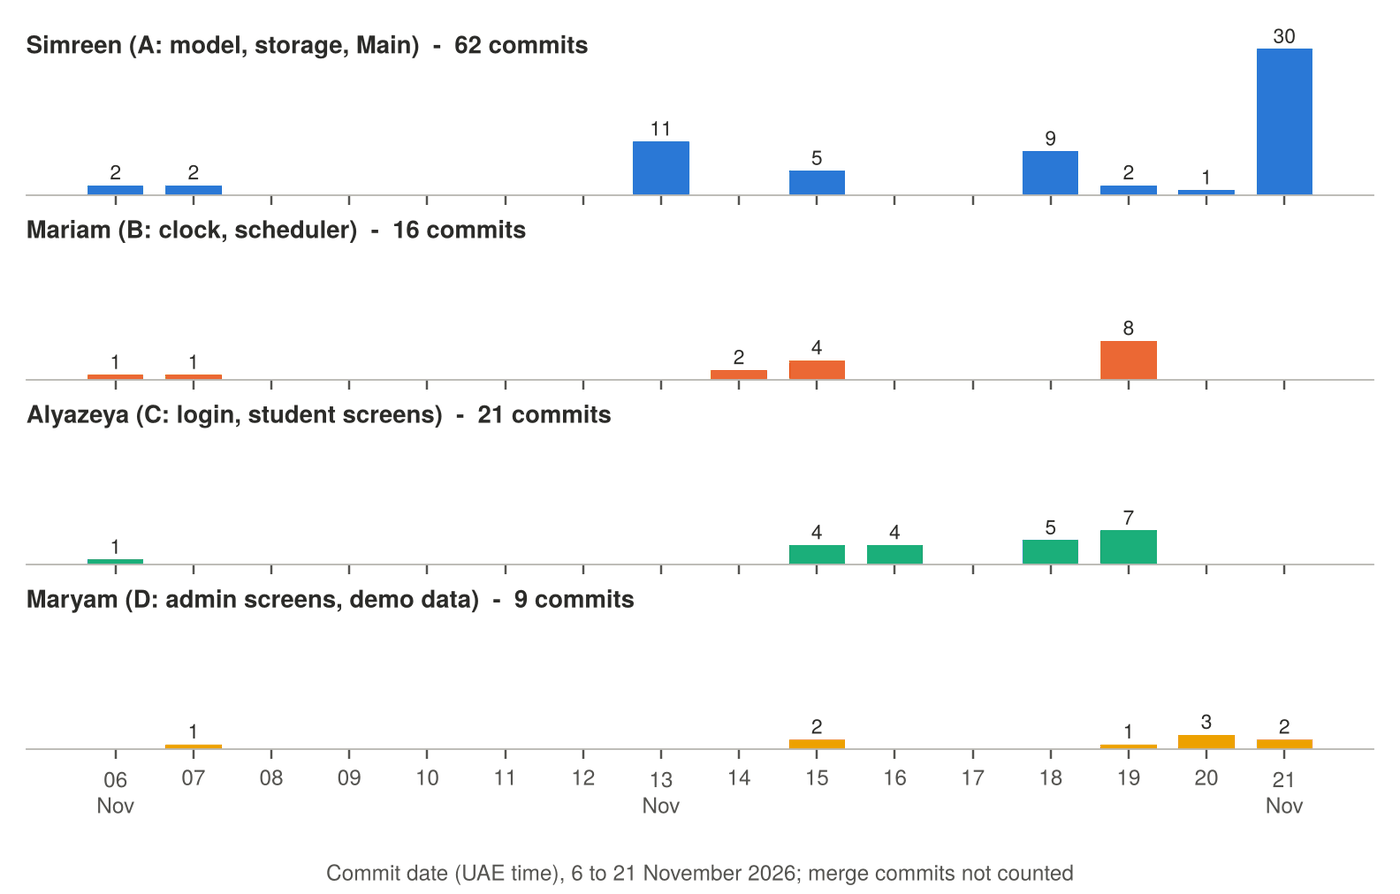
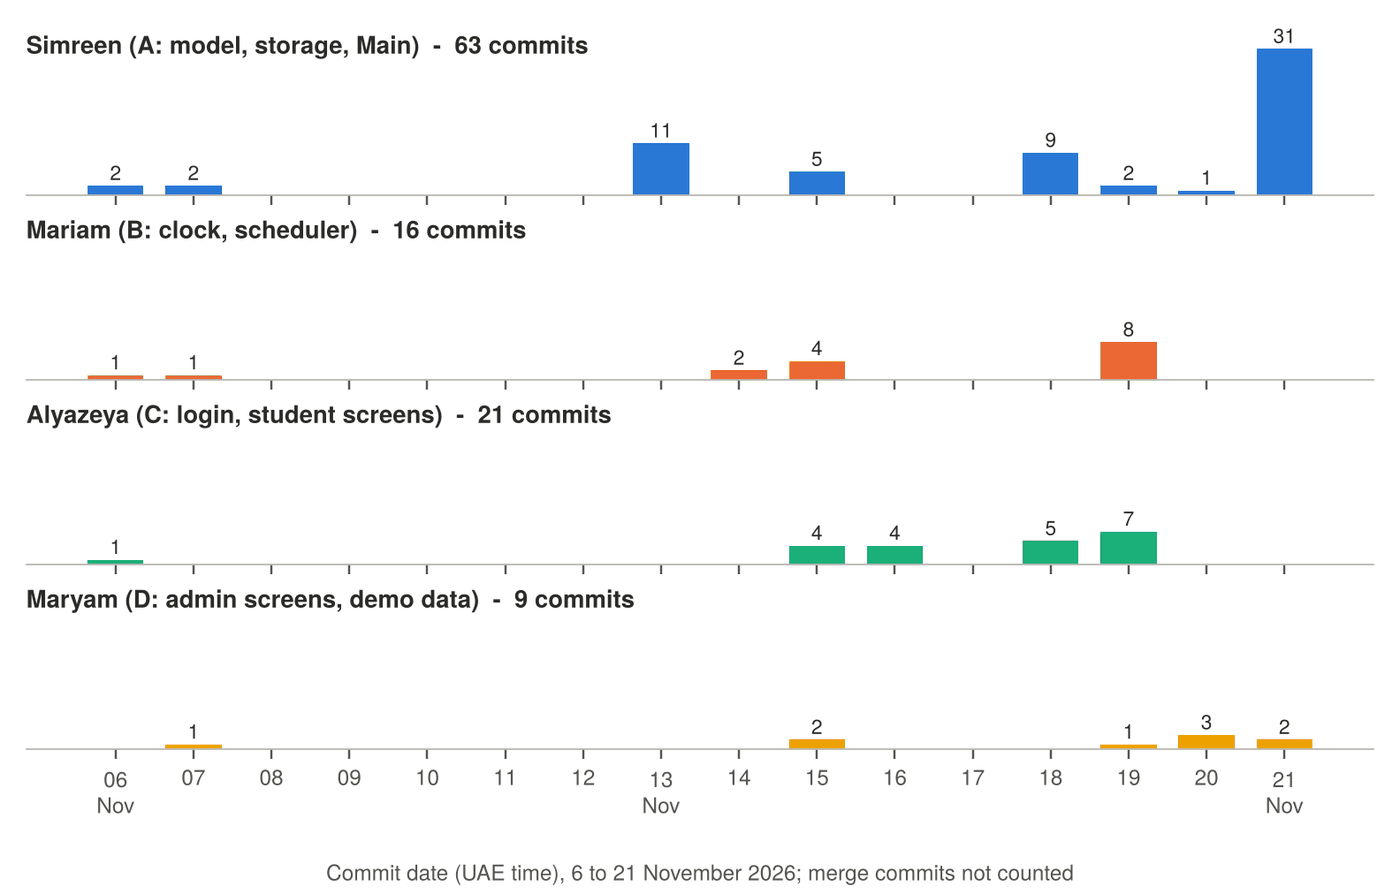
updated my commit count in the readme

diff --git a/README.md b/README.md
@@ -221,7 +221,7 @@ Everything is in one repository on the `main` branch, and each member committed 
 
 | Member | Commits | Main work |
 |---|---|---|
-| Simreen | 62 | project setup, model classes, `AccountService`, `DataStore`, `Main`, tests, diagrams, clean-up, student window tabs |
+| Simreen | 63 | project setup, model classes, `AccountService`, `DataStore`, `Main`, tests, diagrams, clean-up, student window tabs |
 | Mariam | 16 | `SimulationClock`, `Scheduler`, moving it onto the shared `AppData` |
 | Alyazeya | 21 | login, registration, student window, job form, My Jobs, connecting them to the services |
 | Maryam | 9 | admin window and all tabs, clock setup, demo data |
